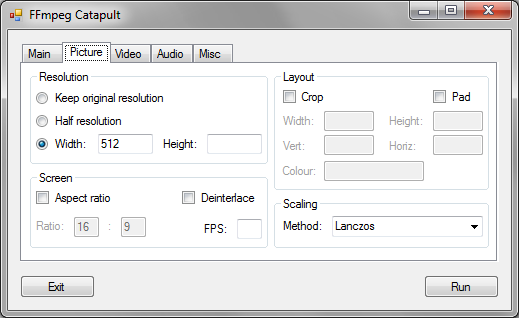
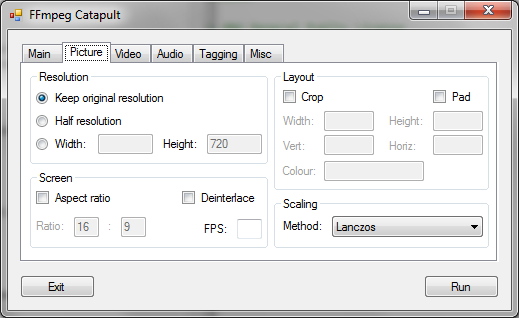
Final fixes and adjustments for 0.2 release.

diff --git a/Source/FFmpegCatapult/Properties/Resources.Designer.cs b/Source/FFmpegCatapult/Properties/Resources.Designer.cs
@@ -1,17 +1,17 @@
 //------------------------------------------------------------------------------
 // <auto-generated>
 //     This code was generated by a tool.
-//     Runtime Version:4.0.30319.1008
+//     Runtime Version:4.0.30319.18444
 //
 //     Changes to this file may cause incorrect behavior and will be lost if
 //     the code is regenerated.
 // </auto-generated>
 //------------------------------------------------------------------------------
 
-namespace FFmpegCatapult.Properties
-{
-
-
+namespace FFmpegCatapult.Properties {
+    using System;
+    
+    
     /// <summary>
     ///   A strongly-typed resource class, for looking up localized strings, etc.
     /// </summary>
@@ -22,48 +22,40 @@ namespace FFmpegCatapult.Properties
     [global::System.CodeDom.Compiler.GeneratedCodeAttribute("System.Resources.Tools.StronglyTypedResourceBuilder", "4.0.0.0")]
     [global::System.Diagnostics.DebuggerNonUserCodeAttribute()]
     [global::System.Runtime.CompilerServices.CompilerGeneratedAttribute()]
-    internal class Resources
-    {
-
+    internal class Resources {
+        
         private static global::System.Resources.ResourceManager resourceMan;
-
+        
         private static global::System.Globalization.CultureInfo resourceCulture;
-
+        
         [global::System.Diagnostics.CodeAnalysis.SuppressMessageAttribute("Microsoft.Performance", "CA1811:AvoidUncalledPrivateCode")]
-        internal Resources()
-        {
+        internal Resources() {
         }
-
+        
         /// <summary>
         ///   Returns the cached ResourceManager instance used by this class.
         /// </summary>
         [global::System.ComponentModel.EditorBrowsableAttribute(global::System.ComponentModel.EditorBrowsableState.Advanced)]
-        internal static global::System.Resources.ResourceManager ResourceManager
-        {
-            get
-            {
-                if ((resourceMan == null))
-                {
+        internal static global::System.Resources.ResourceManager ResourceManager {
+            get {
+                if (object.ReferenceEquals(resourceMan, null)) {
                     global::System.Resources.ResourceManager temp = new global::System.Resources.ResourceManager("FFmpegCatapult.Properties.Resources", typeof(Resources).Assembly);
                     resourceMan = temp;
                 }
                 return resourceMan;
             }
         }
-
+        
         /// <summary>
         ///   Overrides the current thread's CurrentUICulture property for all
         ///   resource lookups using this strongly typed resource class.
         /// </summary>
         [global::System.ComponentModel.EditorBrowsableAttribute(global::System.ComponentModel.EditorBrowsableState.Advanced)]
-        internal static global::System.Globalization.CultureInfo Culture
-        {
-            get
-            {
+        internal static global::System.Globalization.CultureInfo Culture {
+            get {
                 return resourceCulture;
             }
-            set
-            {
+            set {
                 resourceCulture = value;
             }
         }

diff --git a/Source/FFmpegCatapult/AudioSettingsForm.Designer.cs b/Source/FFmpegCatapult/AudioSettingsForm.Designer.cs
@@ -1,4 +1,21 @@
-namespace FFmpegCatapult
+// WinForms code and events for FFmpeg Catapult.
+// Copyright (C) 2013 Myles Thaiss
+
+// This program is free software; you can redistribute it and/or
+// modify it under the terms of the GNU General Public License
+// as published by the Free Software Foundation; either version 2
+// of the License, or (at your option) any later version.
+
+// This program is distributed in the hope that it will be useful,
+// but WITHOUT ANY WARRANTY; without even the implied warranty of
+// MERCHANTABILITY or FITNESS FOR A PARTICULAR PURPOSE.  See the
+// GNU General Public License for more details.
+
+// You should have received a copy of the GNU General Public License
+// along with this program; if not, write to the Free Software
+// Foundation, Inc., 51 Franklin Street, Fifth Floor, Boston, MA  02110-1301, USA.
+
+namespace FFmpegCatapult
 {
     partial class AudioSettingsForm
     {
@@ -29,8 +46,8 @@
         private void InitializeComponent()
         {
             this.groupBoxCodec = new System.Windows.Forms.GroupBox();
-            this.labelProfile = new System.Windows.Forms.Label();
             this.comboBoxCodecProfiles = new System.Windows.Forms.ComboBox();
+            this.labelProfile = new System.Windows.Forms.Label();
             this.buttonApply = new System.Windows.Forms.Button();
             this.buttonCancel = new System.Windows.Forms.Button();
             this.groupBoxCodec.SuspendLayout();
@@ -47,15 +64,6 @@
             this.groupBoxCodec.TabStop = false;
             this.groupBoxCodec.Text = "Codec";
             // 
-            // labelProfile
-            // 
-            this.labelProfile.AutoSize = true;
-            this.labelProfile.Location = new System.Drawing.Point(6, 17);
-            this.labelProfile.Name = "labelProfile";
-            this.labelProfile.Size = new System.Drawing.Size(39, 13);
-            this.labelProfile.TabIndex = 0;
-            this.labelProfile.Text = "Profile:";
-            // 
             // comboBoxCodecProfiles
             // 
             this.comboBoxCodecProfiles.DropDownStyle = System.Windows.Forms.ComboBoxStyle.DropDownList;
@@ -64,6 +72,15 @@
             this.comboBoxCodecProfiles.Name = "comboBoxCodecProfiles";
             this.comboBoxCodecProfiles.Size = new System.Drawing.Size(143, 21);
             this.comboBoxCodecProfiles.TabIndex = 1;
+            // 
+            // labelProfile
+            // 
+            this.labelProfile.AutoSize = true;
+            this.labelProfile.Location = new System.Drawing.Point(6, 17);
+            this.labelProfile.Name = "labelProfile";
+            this.labelProfile.Size = new System.Drawing.Size(39, 13);
+            this.labelProfile.TabIndex = 0;
+            this.labelProfile.Text = "Profile:";
             // 
             // buttonApply
             // 

diff --git a/Source/FFmpegCatapult/Preset.cs b/Source/FFmpegCatapult/Preset.cs
@@ -59,7 +59,7 @@ namespace FFmpegCatapult
                     Video.Trellis = 2;
                     Audio.Codec = "mp3";
                     Audio.Channels = 2;
-                    Audio.SampleRate = 32000;
+                    Audio.SampleRate = 44100;
                     Screen.Width = 512;
                     Screen.Height = 0;
                     Screen.ScaleOption = 1;
@@ -86,7 +86,7 @@ namespace FFmpegCatapult
                     Video.CodecLevel = 41;
                     Video.UseCRF = true;
                     Video.CRF = 18;
-                    Screen.ScaleOption = 1;
+                    Screen.ScaleOption = 0;
                     Screen.Width = 0;
                     Screen.Height = 720;
                     Screen.AspectRatio = false;
@@ -205,11 +205,31 @@ namespace FFmpegCatapult
                     Video.BFrames = 2;
                     Video.GOPSize = 15;
                     Video.MEMethod = "epzs";
-                    Screen.ScaleOption = 1;
+                    Screen.ScaleOption = 0;
                     Screen.Width = 0;
                     Screen.Height = 720;
                     Audio.Codec = "mp2";
                     Audio.Bitrate = 256;
+                    break;
+                case "mp4sd":
+                    File.Format = "mp4";
+                    Video.Codec = "mpeg4";
+                    Video.Bitrate = 2500;
+                    Video.MaxBitrate = 4000;
+                    Screen.ScaleOption = 1;
+                    Screen.Width = 0;
+                    Screen.Height = 480;
+                    Audio.Codec = "aac";                    
+                    break;
+                case "mp4hd":
+                    File.Format = "mp4";
+                    Video.Codec = "mpeg4";
+                    Video.Bitrate = 15000;
+                    Video.MaxBitrate = 20000;
+                    Screen.ScaleOption = 0;
+                    Screen.Width = 0;
+                    Screen.Height = 720;
+                    Audio.Codec = "aac";
                     break;
                 case "psp":
                     File.Format = "mp4";
@@ -256,7 +276,7 @@ namespace FFmpegCatapult
                     Video.MaxBitrate = 1500;
                     Video.Qmin = 0;
                     Video.Qmax = 63;
-                    Screen.ScaleOption = 0;
+                    Screen.ScaleOption = 1;
                     Screen.Width = 0;
                     Screen.Height = 480;
                     Screen.RatioA = 16;

diff --git a/Source/FFmpegCatapult/Properties/Settings.Designer.cs b/Source/FFmpegCatapult/Properties/Settings.Designer.cs
@@ -1,28 +1,24 @@
 //------------------------------------------------------------------------------
 // <auto-generated>
 //     This code was generated by a tool.
-//     Runtime Version:4.0.30319.1008
+//     Runtime Version:4.0.30319.18444
 //
 //     Changes to this file may cause incorrect behavior and will be lost if
 //     the code is regenerated.
 // </auto-generated>
 //------------------------------------------------------------------------------
 
-namespace FFmpegCatapult.Properties
-{
-
-
+namespace FFmpegCatapult.Properties {
+    
+    
     [global::System.Runtime.CompilerServices.CompilerGeneratedAttribute()]
-    [global::System.CodeDom.Compiler.GeneratedCodeAttribute("Microsoft.VisualStudio.Editors.SettingsDesigner.SettingsSingleFileGenerator", "10.0.0.0")]
-    internal sealed partial class Settings : global::System.Configuration.ApplicationSettingsBase
-    {
-
+    [global::System.CodeDom.Compiler.GeneratedCodeAttribute("Microsoft.VisualStudio.Editors.SettingsDesigner.SettingsSingleFileGenerator", "12.0.0.0")]
+    internal sealed partial class Settings : global::System.Configuration.ApplicationSettingsBase {
+        
         private static Settings defaultInstance = ((Settings)(global::System.Configuration.ApplicationSettingsBase.Synchronized(new Settings())));
-
-        public static Settings Default
-        {
-            get
-            {
+        
+        public static Settings Default {
+            get {
                 return defaultInstance;
             }
         }

diff --git a/Source/FFmpegCatapult/FFmpegCatapultForm.cs b/Source/FFmpegCatapult/FFmpegCatapultForm.cs
@@ -399,7 +399,7 @@ namespace FFmpegCatapult
             textBoxMinBitrate.TextChanged += new EventHandler(textBoxMinBitrate_TextChanged);
 
             textBoxMaxBitrate.TextChanged -= new EventHandler(textBoxMaxBitrate_TextChanged);
-            textBoxMinBitrate.Text = Methods.IntToText(Video.MaxBitrate);
+            textBoxMaxBitrate.Text = Methods.IntToText(Video.MaxBitrate);
             textBoxMaxBitrate.TextChanged += new EventHandler(textBoxMaxBitrate_TextChanged);
 
             textBoxBufferSize.TextChanged -= new EventHandler(textBoxBufferSize_TextChanged);
@@ -1147,7 +1147,8 @@ namespace FFmpegCatapult
         void buttonVideoCodecProperties_Clicked(object sender, EventArgs e)
         {
             VideoSettingsForm videoProperties = new VideoSettingsForm();
-            videoProperties.Show();
+            videoProperties.StartPosition = FormStartPosition.CenterParent;
+            videoProperties.ShowDialog(this);
         }
 
         void comboBoxVideoCodecs_SelectedIndexChanged(object sender, EventArgs e)
@@ -1230,7 +1231,8 @@ namespace FFmpegCatapult
         void buttonAudioCodecProperties_Clicked(object sender, EventArgs e)
         {
             AudioSettingsForm audioProperties = new AudioSettingsForm();
-            audioProperties.Show();
+            audioProperties.StartPosition = FormStartPosition.CenterParent;
+            audioProperties.ShowDialog(this);
         }
 
         void comboBoxAudioCodecs_SelectedIndexChanged(object sender, EventArgs e)

diff --git a/Source/FFmpegCatapult/AudioSettingsForm.cs b/Source/FFmpegCatapult/AudioSettingsForm.cs
@@ -1,4 +1,21 @@
-using System;
+// WinForms code and events for FFmpeg Catapult.
+// Copyright (C) 2013 Myles Thaiss
+
+// This program is free software; you can redistribute it and/or
+// modify it under the terms of the GNU General Public License
+// as published by the Free Software Foundation; either version 2
+// of the License, or (at your option) any later version.
+
+// This program is distributed in the hope that it will be useful,
+// but WITHOUT ANY WARRANTY; without even the implied warranty of
+// MERCHANTABILITY or FITNESS FOR A PARTICULAR PURPOSE.  See the
+// GNU General Public License for more details.
+
+// You should have received a copy of the GNU General Public License
+// along with this program; if not, write to the Free Software
+// Foundation, Inc., 51 Franklin Street, Fifth Floor, Boston, MA  02110-1301, USA.
+
+using System;
 using System.Collections.Generic;
 using System.ComponentModel;
 using System.Data;

diff --git a/Source/FFmpegCatapult/VideoSettingsForm.Designer.cs b/Source/FFmpegCatapult/VideoSettingsForm.Designer.cs
@@ -1,4 +1,21 @@
-namespace FFmpegCatapult
+// WinForms code and events for FFmpeg Catapult.
+// Copyright (C) 2013 Myles Thaiss
+
+// This program is free software; you can redistribute it and/or
+// modify it under the terms of the GNU General Public License
+// as published by the Free Software Foundation; either version 2
+// of the License, or (at your option) any later version.
+
+// This program is distributed in the hope that it will be useful,
+// but WITHOUT ANY WARRANTY; without even the implied warranty of
+// MERCHANTABILITY or FITNESS FOR A PARTICULAR PURPOSE.  See the
+// GNU General Public License for more details.
+
+// You should have received a copy of the GNU General Public License
+// along with this program; if not, write to the Free Software
+// Foundation, Inc., 51 Franklin Street, Fifth Floor, Boston, MA  02110-1301, USA.
+
+namespace FFmpegCatapult
 {
     partial class VideoSettingsForm
     {

diff --git a/Source/FFmpegCatapult/Properties/AssemblyInfo.cs b/Source/FFmpegCatapult/Properties/AssemblyInfo.cs
@@ -10,7 +10,7 @@ using System.Runtime.InteropServices;
 [assembly: AssemblyConfiguration("")]
 [assembly: AssemblyCompany("")]
 [assembly: AssemblyProduct("FFmpeg Catapult")]
-[assembly: AssemblyCopyright("Copyright ©  2013 Myles Thaiss")]
+[assembly: AssemblyCopyright("Copyright ©  2014 Myles Thaiss")]
 [assembly: AssemblyTrademark("")]
 [assembly: AssemblyCulture("")]
 
@@ -32,5 +32,5 @@ using System.Runtime.InteropServices;
 // You can specify all the values or you can default the Build and Revision Numbers 
 // by using the '*' as shown below:
 // [assembly: AssemblyVersion("1.0.*")]
-[assembly: AssemblyVersion("0.1.0.0")]
-[assembly: AssemblyFileVersion("0.1.0.0")]
+[assembly: AssemblyVersion("0.2.0.0")]
+[assembly: AssemblyFileVersion("0.2.0.0")]

diff --git a/Source/FFmpegCatapult/Bin.cs b/Source/FFmpegCatapult/Bin.cs
@@ -205,7 +205,7 @@ namespace FFmpegCatapult
                         videoArgs.Add(string.Format("-trellis {0}", Video.Trellis));
                     }
 
-                    if (Video.PictureFormat != "")
+                    if (!string.IsNullOrEmpty(Video.PictureFormat))
                     {
                         videoArgs.Add(string.Format("-pix_fmt {0}", Video.PictureFormat));
                     }

diff --git a/README.md b/README.md
@@ -1,7 +1,7 @@
 FFmpeg Catapult
 ===============
 
-A clean and simple graphical launcher for FFmpeg.
+A clean and simple graphical launcher for FFmpeg:
 
 ![Screenshot](https://raw.github.com/mylesthaiss/FFmpegCatapult/master/Screenshots/Main.png)
 
@@ -12,11 +12,14 @@ A clean and simple graphical launcher for FFmpeg.
 ![Screenshot](https://raw.github.com/mylesthaiss/FFmpegCatapult/master/Screenshots/Video.png)
 
 
+![Screenshot](https://raw.github.com/mylesthaiss/FFmpegCatapult/master/Screenshots/VideoSettings.png)
+
+
 ![Screenshot](https://raw.github.com/mylesthaiss/FFmpegCatapult/master/Screenshots/Main.png)
 
 Requirements
 ============
-- Microsoft .NET Framework runtime or Mono with WinForms support.
+- Microsoft .NET Framework 4 runtime or Mono with WinForms support.
 - A FFmpeg binary with libx264, libxvid, libmp3lame and libvoaacenc support.
 - Terminal emulator such as Command Prompt (Windows) or Xterm (Unix).
 
